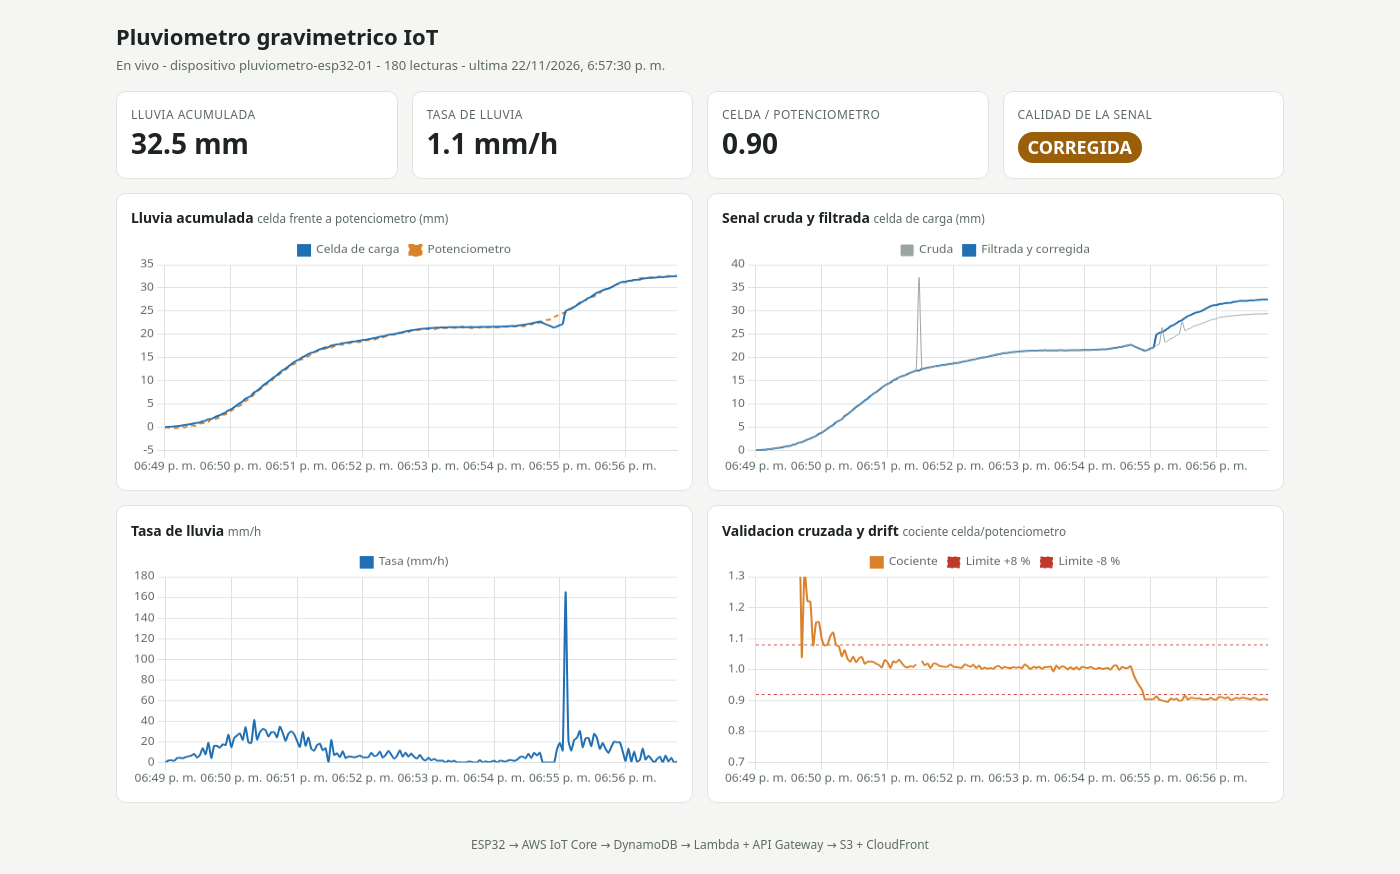
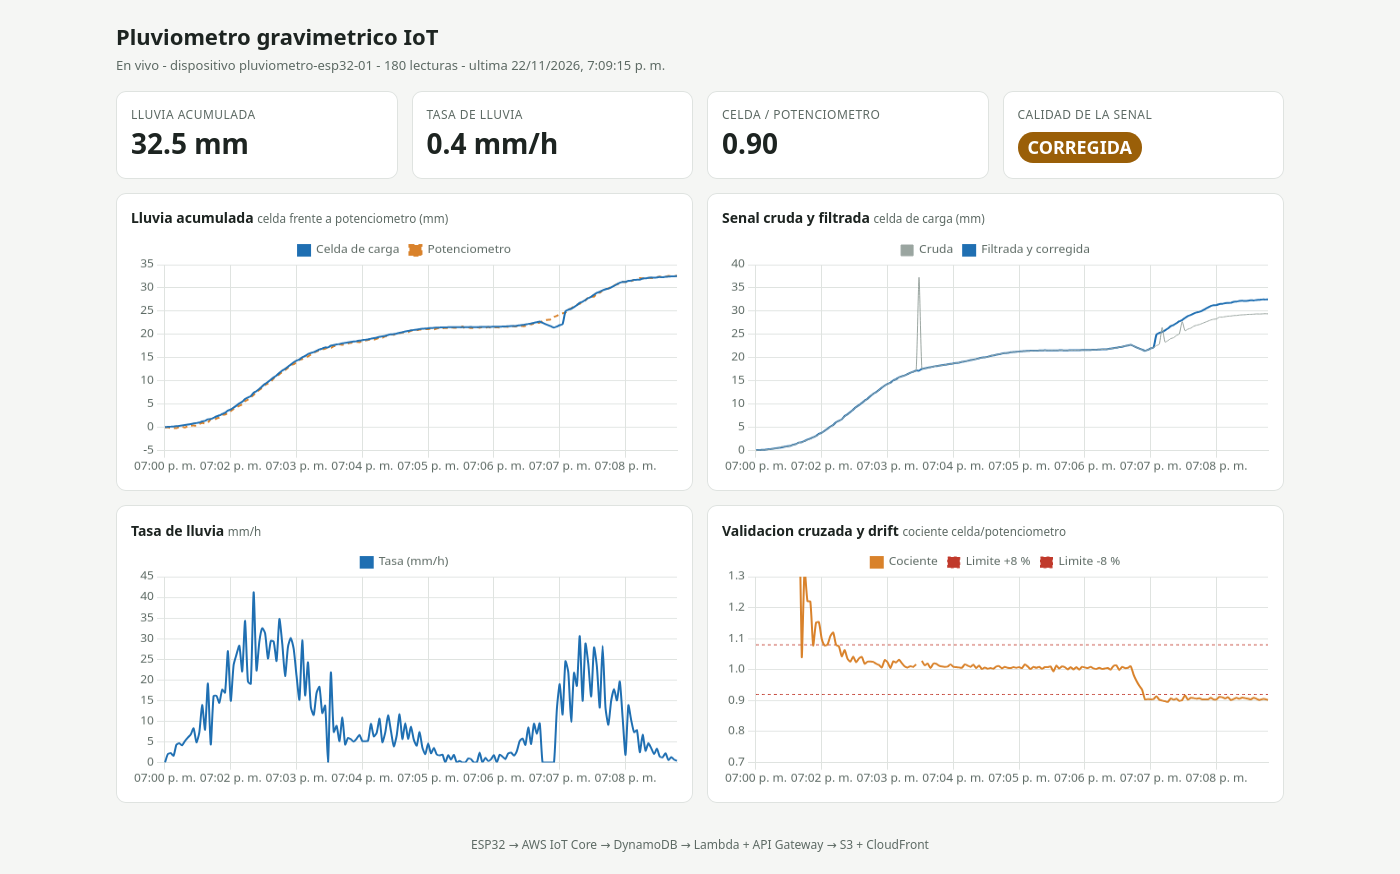
Tasa de lluvia sin saltos al compensar el drift

Changed region(s): [[0.0921, 0.6487, 0.4914, 0.8959], [0.3071, 0.1545, 0.3379, 0.1854]]

diff --git a/informe/informe.tex b/informe/informe.tex
@@ -182,7 +182,7 @@ Mediana + EMA & 1,44 & 8,4\\
 \end{figure}
 
 \subsection{Detección y corrección de la deriva}
-La Fig.~\ref{fig:val} muestra la tormenta completa. El golpe de 90~s se marcó \texttt{FUERA\_RANGO} y no alteró la lluvia publicada. Al iniciar la falla de ganancia, la lectura sin compensar se separa del potenciómetro; a los 5~min, cuando la pérdida de ganancia supera el 8~\%, las lecturas pasan a \texttt{SOSPECHOSA}, y a los 9~min la ganancia estimada (0,905 frente a 0,90 real) ya se compensa y las lecturas quedan \texttt{CORREGIDA}. Al final de la tormenta la lluvia sin compensar tenía un error de $-9{,}9$~\% y la corregida de $-0{,}4$~\%.
+La Fig.~\ref{fig:val} muestra la tormenta completa. El golpe de 90~s se marcó \texttt{FUERA\_RANGO} y no alteró la lluvia publicada. Al iniciar la falla de ganancia, la lectura sin compensar se separa del potenciómetro; a los 5~min, cuando la pérdida de ganancia supera el 8~\%, las lecturas pasan a \texttt{SOSPECHOSA}, y a los 9~min la ganancia estimada (0,905 frente a 0,90 real) ya se compensa y las lecturas quedan \texttt{CORREGIDA}. La tasa de lluvia se calcula con la misma ganancia en los dos envíos, para que la activación de la compensación no se interprete como lluvia. Al final de la tormenta la lluvia sin compensar tenía un error de $-9{,}9$~\% y la corregida de $-0{,}4$~\%.
 
 \begin{figure*}[t]
 \centering
@@ -258,7 +258,7 @@ y se elimina con \texttt{terraform destroy} al terminar cada sesión del laborat
 
 \begin{figure*}[t]
 \centering
-\includegraphics[width=0.82\textwidth]{../docs/evidencia/dashboard_informe.png}
+\includegraphics[width=0.78\textwidth]{../docs/evidencia/dashboard_informe.png}
 \caption{Tablero en CloudFront con las 30 lecturas de la prueba. En el panel de validación cruzada, el cociente sale de la banda $\pm8$~\% al activarse la deriva simulada, mientras la lluvia filtrada y corregida continúa sin caída.}
 \label{fig:dash}
 \end{figure*}
@@ -312,9 +312,9 @@ Salida & Valor\\
 \end{tabularx}
 \end{table}
 
-La prueba de punta a punta, previa al gemelo digital, reprodujo la ruta completa del dato: se publicaron 30 mensajes MQTT con el formato del firmware en el tópico \texttt{pluviometro/pluviometro-esp32-01/telemetria} (\texttt{aws iot-data publish}); la regla IoT añadió \texttt{device\_id} y \texttt{ts} y los guardó en DynamoDB; la Lambda los entregó por API Gateway (\texttt{GET /lecturas}, HTTP 200, $n=30$), y el tablero servido por CloudFront los graficó (Fig.~\ref{fig:dash}). Se simuló una lluvia fuerte de 13,4~mm con intensidad entre 20 y 33~mm/h. En los mensajes 23 a 30 se activó la deriva simulada: la lectura cruda cayó al 90~\%, el cociente sin compensar quedó entre 0,89 y 0,91, por debajo del límite de 0,92, y las lecturas se marcaron \texttt{SOSPECHOSA}, mientras la lluvia corregida siguió la curva real sin caída (Tabla~\ref{tab:lect}). Antes de la deriva el cociente estuvo entre 0,98 y 1,03 y todas las lecturas fueron \texttt{OK}.
+La prueba de punta a punta, previa al gemelo digital, reprodujo la ruta completa del dato: se publicaron 30 mensajes MQTT con el formato del firmware en el tópico \texttt{pluviometro/\allowbreak pluviometro-esp32-01/\allowbreak telemetria} (\texttt{aws iot-data publish}); la regla IoT añadió \texttt{device\_id} y \texttt{ts} y los guardó en DynamoDB; la Lambda los entregó por API Gateway (\texttt{GET /lecturas}, HTTP 200, $n=30$), y el tablero servido por CloudFront los graficó (Fig.~\ref{fig:dash}). Se simuló una lluvia fuerte de 13,4~mm con intensidad entre 20 y 33~mm/h. En los mensajes 23 a 30 se activó la deriva simulada: la lectura cruda cayó al 90~\%, el cociente sin compensar quedó entre 0,89 y 0,91, por debajo del límite de 0,92, y las lecturas se marcaron \texttt{SOSPECHOSA}, mientras la lluvia corregida siguió la curva real sin caída (Tabla~\ref{tab:lect}). Antes de la deriva el cociente estuvo entre 0,98 y 1,03 y todas las lecturas fueron \texttt{OK}.
 
-Fue una prueba acelerada: cada mensaje representa 1~minuto de lluvia simulada, pero se publicaron cada 2~s, por lo que el eje de tiempo del tablero abarca 1~minuto real. El gemelo digital también puede publicar sus 180 lecturas en el mismo tópico (\texttt{--publicar}), con el formato del firmware. Las capturas de la consola de DynamoDB e IoT Core se incluyen en el Anexo~A. El 22 de noviembre de 2026 se publicaron en AWS IoT Core las 180 lecturas del gemelo digital: la API las devolvió completas y en orden, con sus banderas de calidad (135 \texttt{OK}, 1 \texttt{FUERA\_RANGO}, 4 \texttt{SOSPECHOSA} y 40 \texttt{CORREGIDA}). El tablero graficó las 180 y mostró la bandera de la última, \texttt{CORREGIDA}; la captura está en \texttt{docs/\allowbreak evidencia/\allowbreak dashboard\_gemelo.png}.
+Fue una prueba acelerada: cada mensaje representa 1~minuto de lluvia simulada, pero se publicaron cada 2~s, por lo que el eje de tiempo del tablero abarca 1~minuto real. Las capturas de la consola de DynamoDB e IoT Core se incluyen en el Anexo~A. El 22 de noviembre de 2026 se publicaron en AWS IoT Core, en el mismo tópico, las 180 lecturas del gemelo digital (\texttt{-{}-publicar}): la API las devolvió completas y en orden, con sus banderas de calidad (135 \texttt{OK}, 1 \texttt{FUERA\_RANGO}, 4 \texttt{SOSPECHOSA} y 40 \texttt{CORREGIDA}). El tablero graficó las 180 y mostró la bandera de la última, \texttt{CORREGIDA}; la captura está en \texttt{docs/\allowbreak evidencia/\allowbreak dashboard\_gemelo.png}.
 
 \begin{table}[t]
 \caption{Lecturas almacenadas en DynamoDB}

diff --git a/simulacion/gemelo_digital.py b/simulacion/gemelo_digital.py
@@ -193,7 +193,7 @@ def procesar(mundo, cal, fw=FIRMWARE, mm_min=None, tol_abs=None):
 
     paso = int(fw["INTERVALO_S"] * fs)
     pubs, hist = [], []                                    # (cociente, fuera de banda)
-    ganancia_est, masa_ant, mm_ant, seq = 1.0, 0.0, None, 0
+    ganancia_est, masa_ant, seq = 1.0, 0.0, 0
     for k in range(paso - 1, len(raw), paso):
         masa_filt = a_g(filt[k])
         masa_reg = (masa_filt - cal["b"]) / cal["a"]       # paso 4: regresion
@@ -220,12 +220,14 @@ def procesar(mundo, cal, fw=FIRMWARE, mm_min=None, tol_abs=None):
         if calidad == "FUERA_RANGO":
             masa_reg = masa_ant                            # se retiene el ultimo valor valido
             mm_sin = masa_reg / fw["G_POR_MM"]
+        masa_reg_ant = masa_ant                            # antes de compensar, para la tasa
         masa_ant = masa_reg
         masa_corr = masa_reg / ganancia_est
         mm = masa_corr / fw["G_POR_MM"]
         t_s = mundo["t"][k]
-        tasa = 0.0 if mm_ant is None else max(0.0, (mm - mm_ant) / (fw["INTERVALO_S"] / 3600))
-        mm_ant = mm
+        # Misma ganancia en los dos envios: activar la compensacion no aparece como lluvia
+        horas = fw["INTERVALO_S"] / 3600
+        tasa = 0.0 if seq == 0 else max(0.0, (masa_reg - masa_reg_ant) / ganancia_est / fw["G_POR_MM"] / horas)
         seq += 1
         pubs.append({
             "seq": seq, "t_h": round(t_s / 3600, 4), "raw": int(mundo["raw"][k]),

diff --git a/CLAUDE.md b/CLAUDE.md
@@ -17,6 +17,9 @@ Entrega final: **26 de noviembre de 2026**. Responde siempre en español.
 5. Validación: FUERA_RANGO publica el último valor válido; desacuerdo si
    |mm_celda − mm_pot| > max(0,08·mm_pot, 0,8 mm) con más de 1 mm; si persiste 5 envíos se estima
    la ganancia (mediana de los cocientes) y se compensa. Calidades: OK, SOSPECHOSA, CORREGIDA, FUERA_RANGO.
+6. Tasa: max(0, (masaReg − masaRegAnterior) / gananciaEst / G_POR_MM / horas), con la masa sin compensar
+   y la misma ganancia en los dos envíos, para que activar la compensación no aparezca como lluvia
+   (seq 141 del gemelo: 24,53 mm/h en vez de 165,07).
 
 Resultados del gemelo (no inventar otros): RMSE 4,33 → 1,44 g; error máx. 104 → 8,4 g;
 0 % falsas alarmas y 100 % de detección en 30 tormentas; detección a los 5 min;
